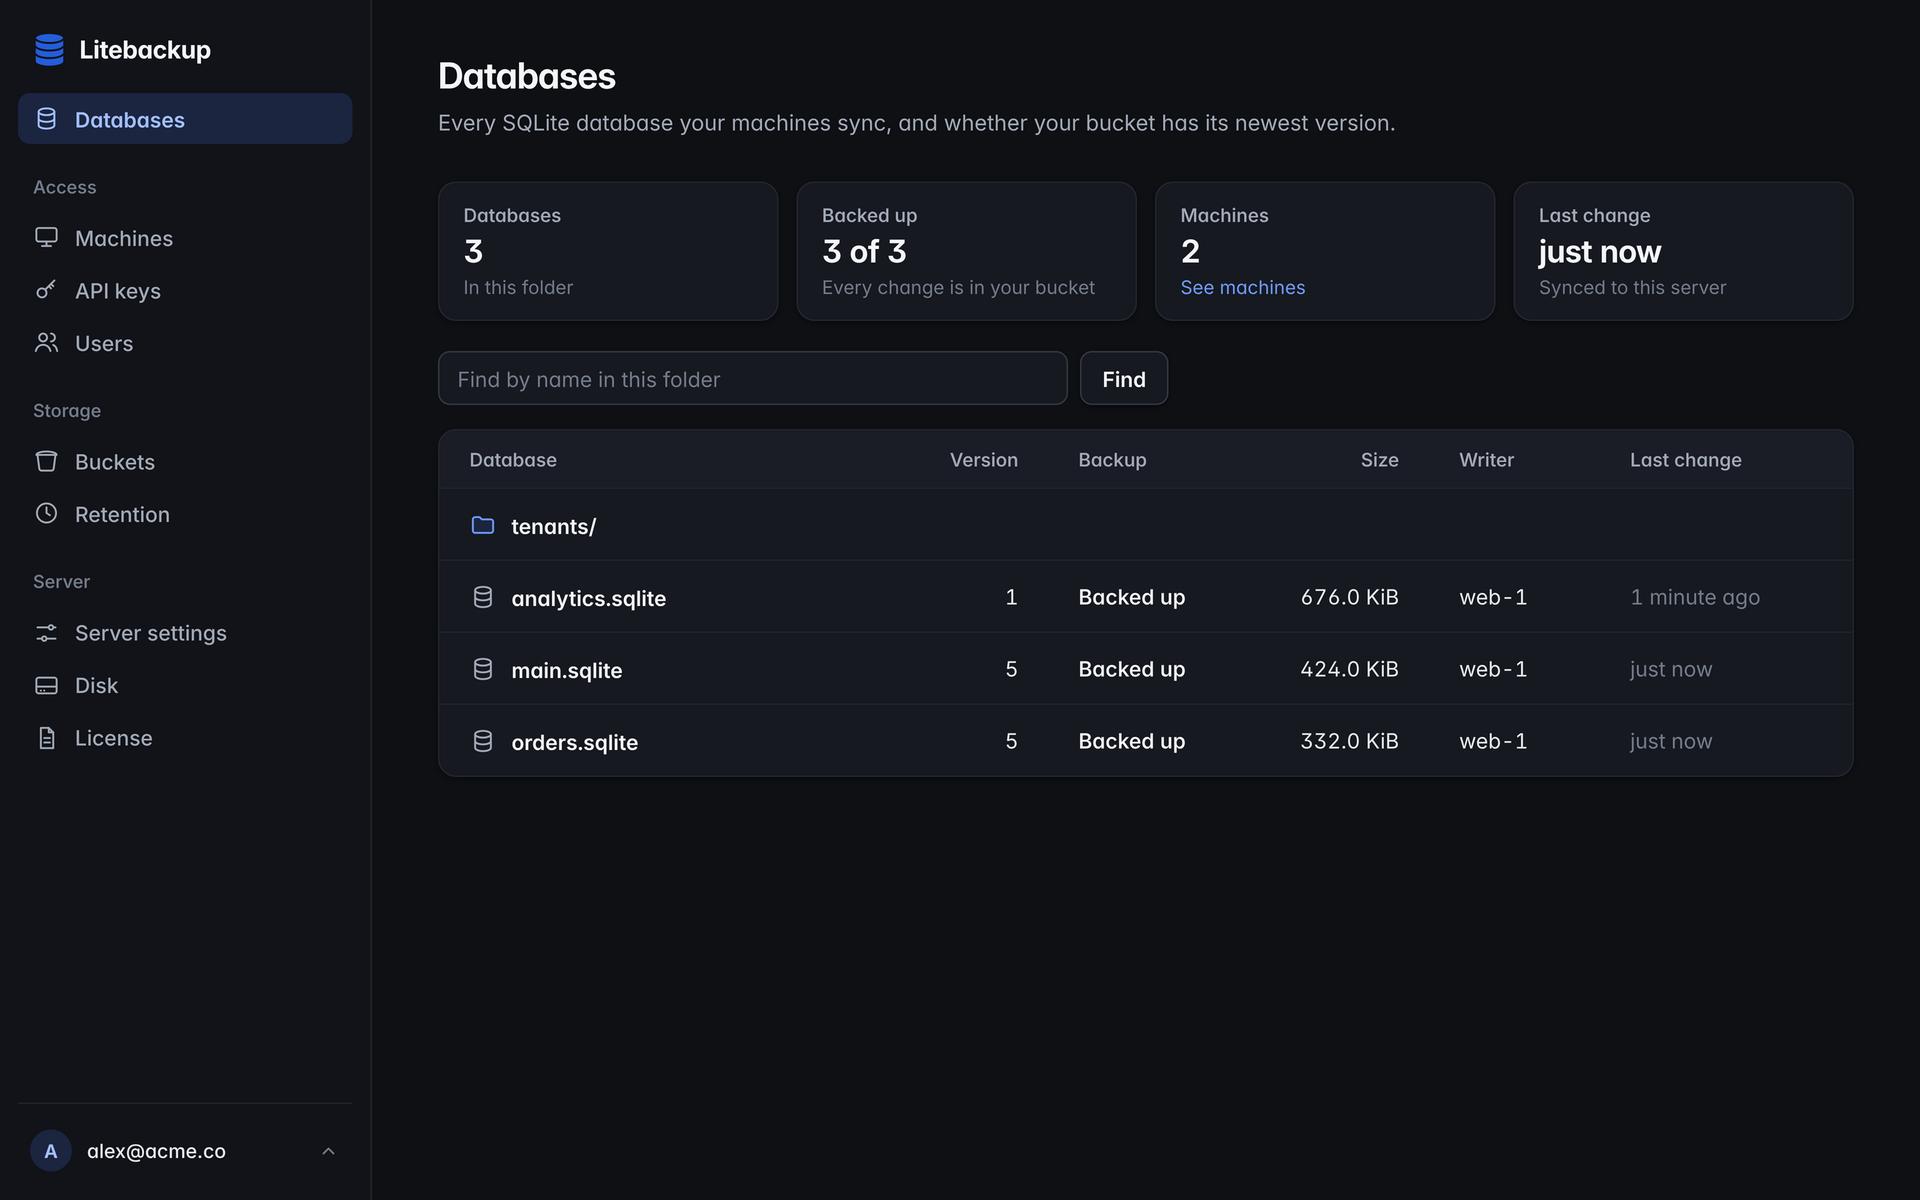
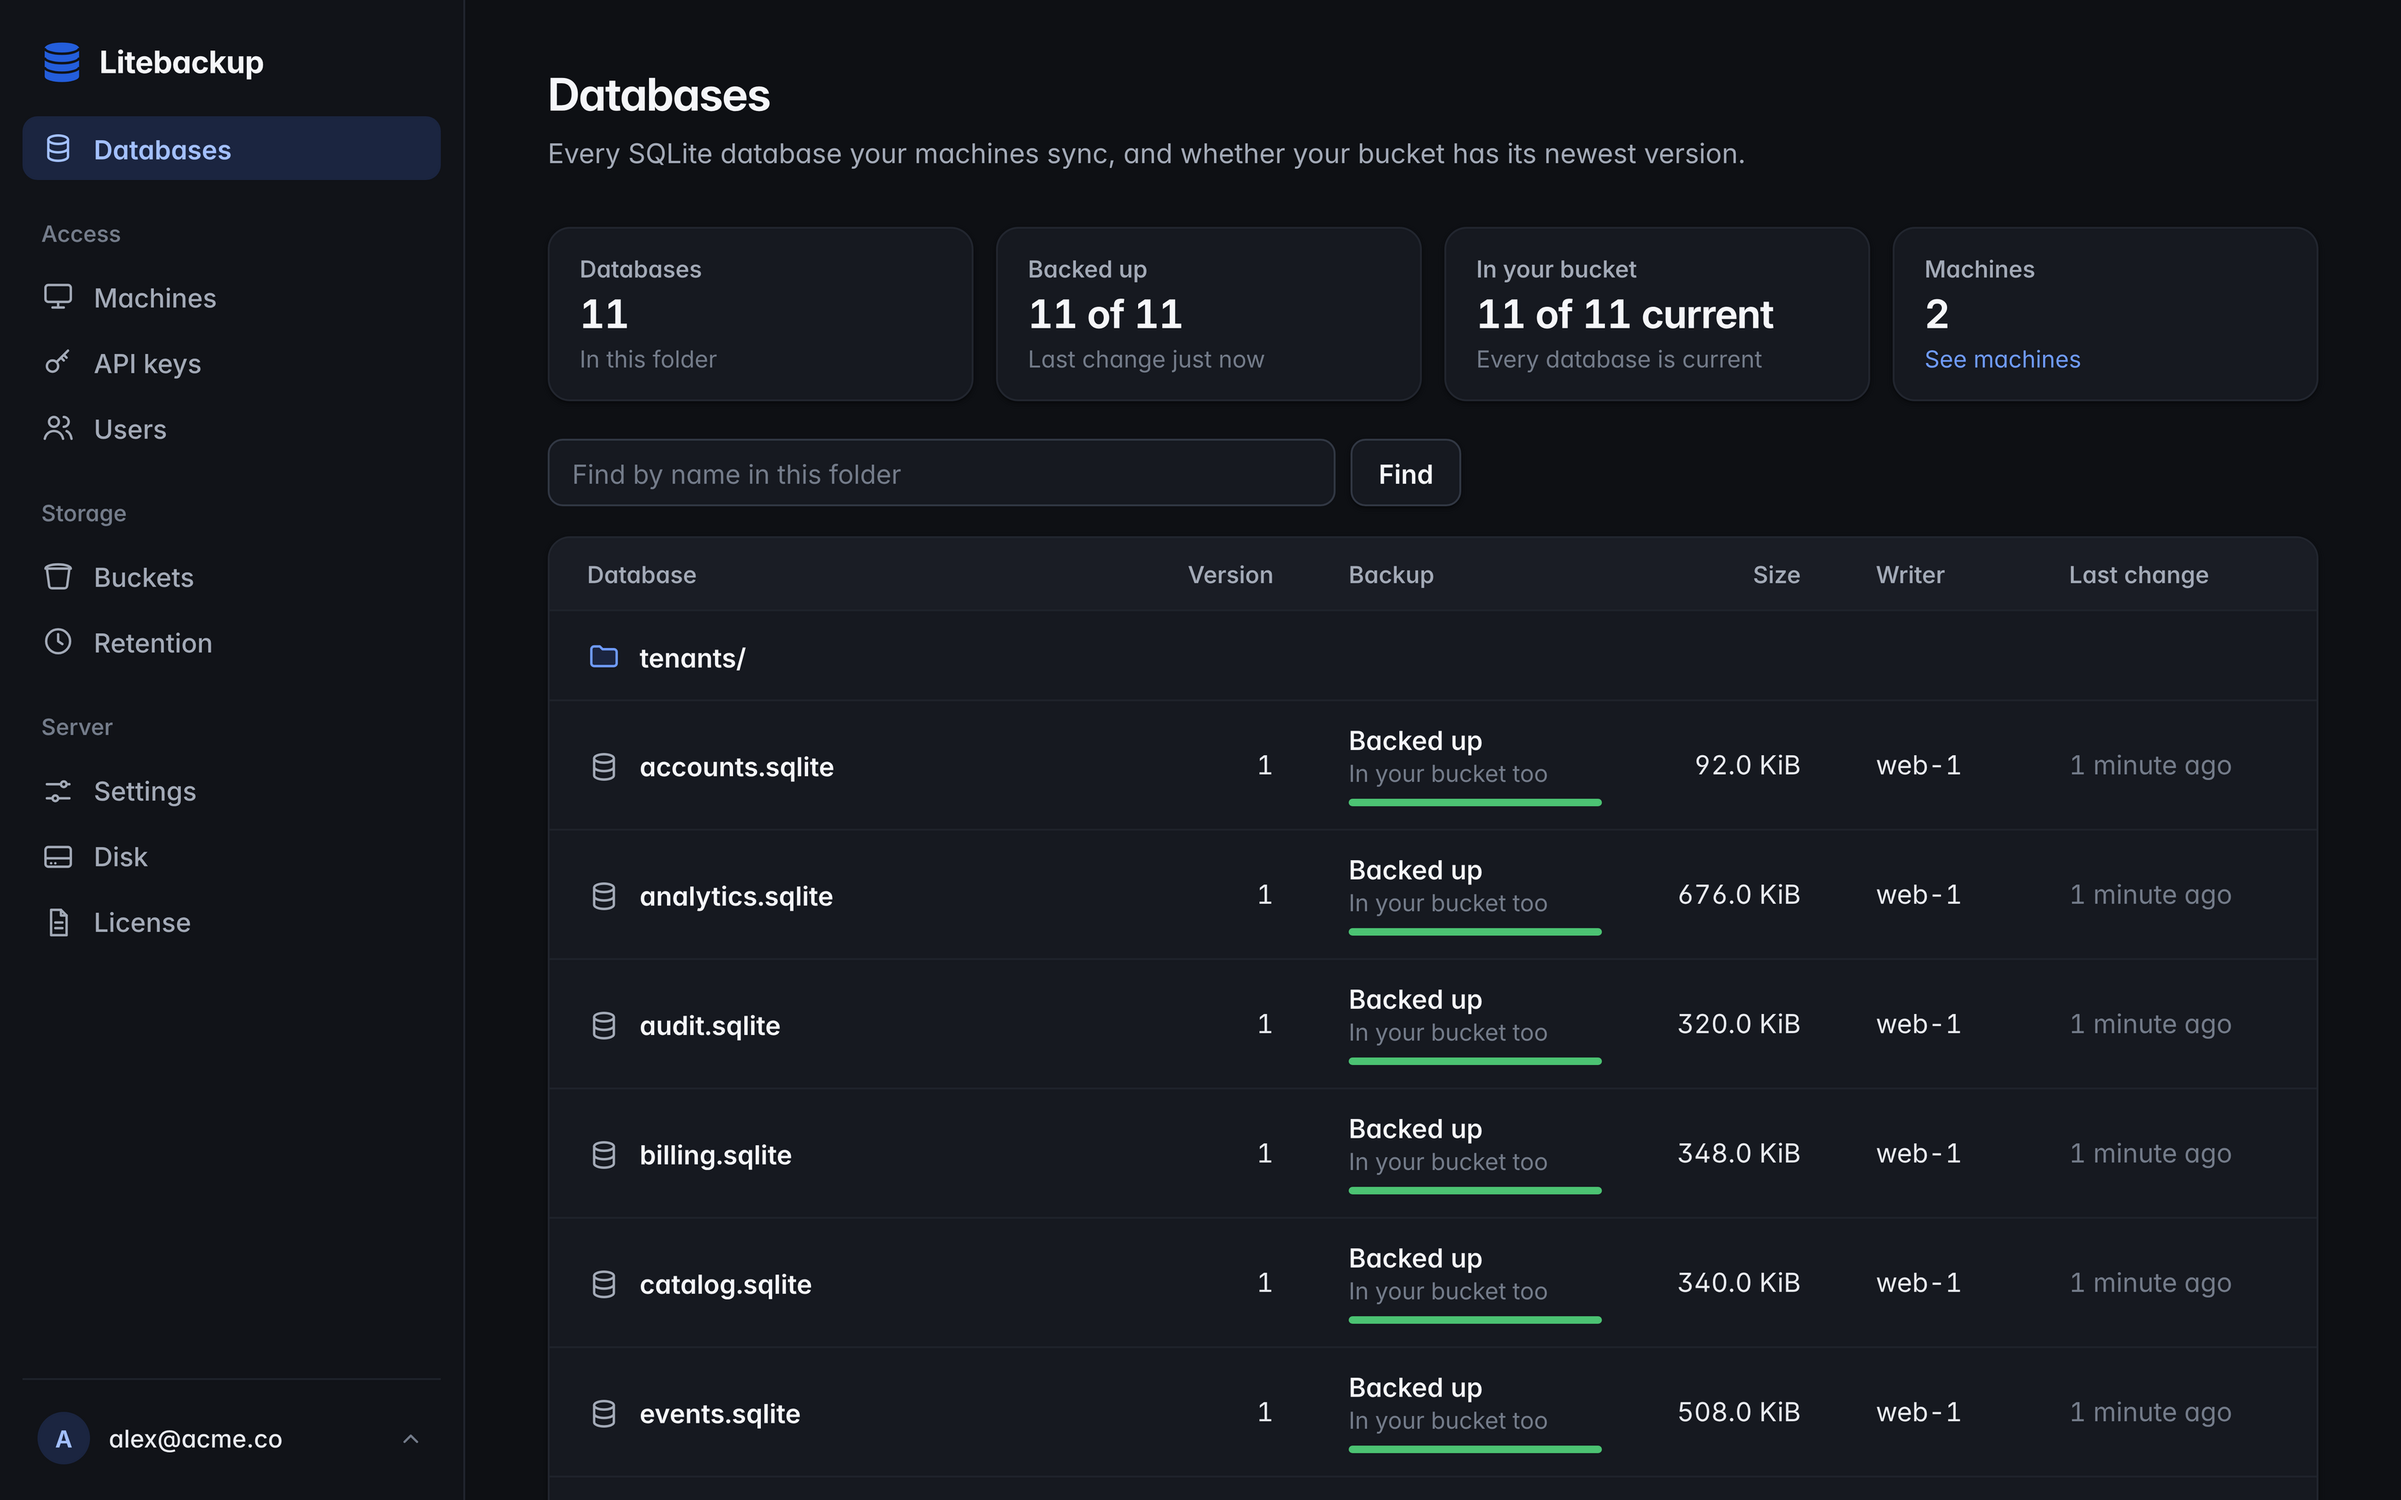
Litebackup SDK 1.3.0: current console screenshots, example pins, and README links

diff --git a/php/README.md b/php/README.md
@@ -63,7 +63,7 @@ In Symfony, register `Litebackup\Integrations\Symfony\LitebackupBundle` in
 `litebackup.connections`, and run `bin/console litebackup:start` at every
 deploy. Workers (`queue:work`, `horizon:work`, and `schedule:work` in
 Laravel, `messenger:consume` in Symfony) register the backups once when they
-start; HTTP requests never call the daemon. The [PHP guide](../docs/sqlite-php.md) has the options.
+start; HTTP requests never call the daemon. The [PHP guide](https://github.com/litebackup/sdk/blob/main/docs/sqlite-php.md) has the options.
 
 ## Move a database between machines
 
@@ -129,6 +129,6 @@ command in the package's directory, and `scripts/test generate` regenerates
 also runs `tests/Integration/IntegrationTest.php` against
 `litebackup server run --development`, with `LITEBACKUP_PATH` set to a
 static `litebackup` binary. `scripts/check-package` builds the Composer
-archive and installs it into a clean project without publishing anything. The [SDK reference](../docs/sdk-reference.md) lists
-every method, and [the contract](../docs/sdk-contract.md) the behavior the
+archive and installs it into a clean project without publishing anything. The [SDK reference](https://github.com/litebackup/sdk/blob/main/docs/sdk-reference.md) lists
+every method, and [the contract](https://github.com/litebackup/sdk/blob/main/docs/sdk-contract.md) the behavior the
 Go, TypeScript, Python, Ruby, and PHP SDKs share.

diff --git a/docs/http-api.md b/docs/http-api.md
@@ -13,8 +13,7 @@ case "${server}" in
   [Hh][Tt][Tt][Pp]://* | [Hh][Tt][Tt][Pp][Ss]://*) ;;
   *) server="https://${server}" ;;
 esac
-curl --fail --silent --show-error \
-  --header "Authorization: Bearer ${LITEBACKUP_API_KEY%@*}" \
+curl -fsS -H "Authorization: Bearer ${LITEBACKUP_API_KEY%@*}" \
   "${server%/}/v1/settings/show"
 ```
 
